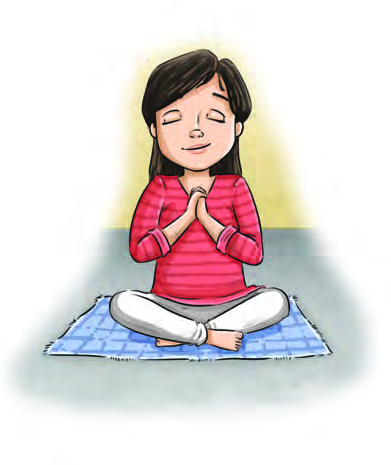
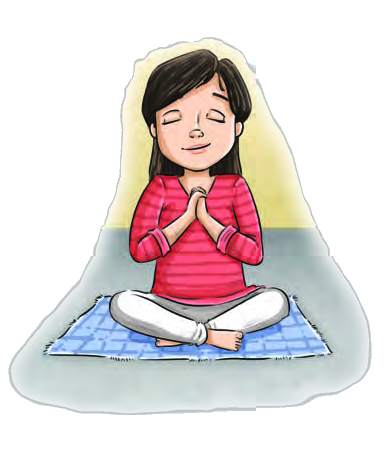
Waayy too many changes

diff --git a/src/data/6/english/poorvi/unit-1/chapter-1-3/textbook.js b/src/data/6/english/poorvi/unit-1/chapter-1-3/textbook.js
@@ -21,7 +21,7 @@ export const parts = [
   },
   {
     heading: "The Clever Plan",
-    explain: `In the next room, the masked thief has dug a hole through the wall and stands listening beside a wooden chest, wondering where the family hides its money. Hearing their voices, he decides to wait until they fall asleep. Meanwhile, the husband whispers a smart idea to his wife. Speaking loudly enough for the thief to hear, they pretend to discuss what they would name a son if they had oneâ€”and agree on the name "Rama".`,
+    explain: `In the next room, the masked thief has dug a hole through the wall and stands listening beside a wooden chest, wondering where the family hides its money. Hearing their voices, he decides to wait until they fall asleep. Meanwhile, the husband whispers a smart idea to his wife. Speaking loudly enough for the thief to hear, they pretend to discuss what they would name a son if they had one—and agree on the name "Rama".`,
     glossary: [
       { word: "wonder", meaning: "a feeling of surprise" },
       { word: "perhaps", meaning: "maybe" },
@@ -30,7 +30,7 @@ export const parts = [
   },
   {
     heading: "Calling Out 'Rama!'",
-    explain: `The thief listens eagerly, hoping they will mention their money, and grows irritated at what sounds like a silly game. Continuing their act, the wife asks how she would call the boy depending on where he is. First she calls softly for inside the house, then a little louder for the yard, and finallyâ€”when her husband asks what she would do if the boy were out in the streetâ€”she shouts "RAMA! RAMA!" at the top of her lungs.`,
+    explain: `The thief listens eagerly, hoping they will mention their money, and grows irritated at what sounds like a silly game. Continuing their act, the wife asks how she would call the boy depending on where he is. First she calls softly for inside the house, then a little louder for the yard, and finally—when her husband asks what she would do if the boy were out in the street—she shouts "RAMA! RAMA!" at the top of her lungs.`,
     glossary: [
       { word: "yard", meaning: "an area outside a building" },
       { word: "instead", meaning: "in place of someone or something" }
@@ -38,7 +38,7 @@ export const parts = [
   },
   {
     heading: "Caught Red-Handed",
-    explain: `Out on night patrol, Rama, the village kotwal, hears his name echoing from the house and sprints straight there. Reaching the back wall, he notices the freshly dug hole and realises a thief has broken in. Quietly squeezing through the opening, Rama catches the thief just as the burglar sighs in relief that the couple's chatter has stopped. Rama taps him on the shoulder and places him under arrest. Hearing the commotion, the husband and wife celebrate joyfullyâ€”their clever plan worked, and Rama marched the thief away into the night.`,
+    explain: `Out on night patrol, Rama, the village kotwal, hears his name echoing from the house and sprints straight there. Reaching the back wall, he notices the freshly dug hole and realises a thief has broken in. Quietly squeezing through the opening, Rama catches the thief just as the burglar sighs in relief that the couple's chatter has stopped. Rama taps him on the shoulder and places him under arrest. Hearing the commotion, the husband and wife celebrate joyfully—their clever plan worked, and Rama marched the thief away into the night.`,
     glossary: [
       { word: "chatter", meaning: "talk for a long time about unimportant things" }
     ]

diff --git a/src/data/6/english/poorvi/unit-1/chapter-1-3/let-us-think-and-reflect.js b/src/data/6/english/poorvi/unit-1/chapter-1-3/let-us-think-and-reflect.js
@@ -73,7 +73,7 @@ Rama: Oh, Oh! Some thief has dug his way into this house.`,
       {
         n: 1, type: "short",
         question: "What did the thief wish would happen? Did it happen?",
-        answer: "The thief wished the couple would stop their silly chatter about naming a child and either talk about where they kept their money or fall asleep so he could rob them. No, it did not happenâ€”instead, their loud calls brought Rama, the kotwal, who arrested him."
+        answer: "The thief wished the couple would stop their silly chatter about naming a child and either talk about where they kept their money or fall asleep so he could rob them. No, it did not happen—instead, their loud calls brought Rama, the kotwal, who arrested him."
       }
     ]
   },
@@ -84,7 +84,7 @@ Rama: Oh, Oh! Some thief has dug his way into this house.`,
       {
         n: 1, type: "long",
         question: "How did the man and his wife get help from the kotwal?",
-        answer: "The man whispered a clever plan to his wife. Pretending to discuss what they would name their future son, they chose 'Rama'â€”the name of the village kotwalâ€”and acted out calling him softly in the house, louder in the yard, and finally shouting 'RAMA!' very loudly as if he were in the street. Hearing his name shouted, the kotwal ran to their house and caught the thief."
+        answer: "The man whispered a clever plan to his wife. Pretending to discuss what they would name their future son, they chose 'Rama'—the name of the village kotwal—and acted out calling him softly in the house, louder in the yard, and finally shouting 'RAMA!' very loudly as if he were in the street. Hearing his name shouted, the kotwal ran to their house and caught the thief."
       }
     ]
   },
@@ -95,7 +95,7 @@ Rama: Oh, Oh! Some thief has dug his way into this house.`,
       {
         n: 1, type: "activity",
         question: "Do you think cleverness can help us solve our problems? Why do you say so?",
-        answer: "*(Personal answer - sample.)* Yes, cleverness and calm thinking can help us solve difficult problems safely. When we panic, we cannot think clearly, but when we use our witâ€”just like the husband and wife in the storyâ€”we can turn even a dangerous situation in our favour without getting hurt."
+        answer: "*(Personal answer - sample.)* Yes, cleverness and calm thinking can help us solve difficult problems safely. When we panic, we cannot think clearly, but when we use our wit—just like the husband and wife in the story—we can turn even a dangerous situation in our favour without getting hurt."
       }
     ]
   }

diff --git a/src/data/6/english/poorvi/unit-1/chapter-1-3/let-us-explore.js b/src/data/6/english/poorvi/unit-1/chapter-1-3/let-us-explore.js
@@ -12,7 +12,7 @@ export const sections = [
         n: 1, type: "activity",
         question: "Find out from your teacher or parents what you would do in the following situations.\n\nWho will you call if ...\nâ€¢ you see fire\nâ€¢ you see someone getting hurt\nâ€¢ you see a wounded animal\nâ€¢ you see someone suspicious\nâ€¢ you find a lost child\nâ€¢ you get lost",
         answer: [
-          "*(Emergency numbers in India â€” always inform a trusted adult nearby as well; **112** is India's national all-in-one emergency number.)*",
+          "*(Emergency numbers in India — always inform a trusted adult nearby as well; **112** is India's national all-in-one emergency number.)*",
           "- **you see fire:** Call the Fire Brigade (**101** or **112**) and alert adults immediately.",
           "- **you see someone getting hurt:** Call an Ambulance (**102** or **108**, or **112**) and call an adult or doctor for first aid.",
           "- **you see a wounded animal:** Inform your parents/teacher and call a local veterinary clinic, municipal animal rescue, or an animal welfare helpline.",
@@ -26,7 +26,7 @@ export const sections = [
         figure: { src: "images/kotwal-maze.png", alt: "A maze puzzle where the village kotwal at the top-left must find the right path to catch the thief at the bottom-right" },
         question: "Find the right path for the kotwal to catch the thief.",
         answer: [
-          "*(Maze activity â€” trace lightly with a pencil on the printed picture.)*",
+          "*(Maze activity — trace lightly with a pencil on the printed picture.)*",
           "1. **Start** at the opening directly below the kotwal in the top-left corner and move **down** along the left corridor.",
           "2. Avoid the short dead-end loops on the far left and top-right; turn **right** into the central passages and weave around the middle horizontal barriers.",
           "3. **Tip:** If you get stuck at a dead end, try tracing **backwards** from the open gap just above the thief at the bottom-right towards the middle corridors until the two paths meet."

diff --git a/src/data/6/english/poorvi/unit-1/chapter-1-2/let-us-speak.js b/src/data/6/english/poorvi/unit-1/chapter-1-2/let-us-speak.js
@@ -10,7 +10,7 @@ export const sections = [
         question: "Narrate the poem in the form of a story. Give a different ending to the story.",
         answer: [
           "*(Sample narration with a different ending.)*",
-          "This is a story about a clever fox named Reynard and Mr Raven. One day, Mr Raven found a delicious piece of bread and flew up to a high branch in the woods to eat it in peace. Reynard the Fox spotted the food and wanted it for himself. Standing under the tree, he praised Mr Raven's shiny black feathers and begged him to sing so that all the birds of the woods would call him King. For a second, Mr Raven felt pleasedâ€”but then he remembered that his voice was only a hoarse croak! Realising Reynard's trick, Mr Raven carefully tucked the piece of bread safely under his claw on the branch, let out a loud 'Caw! Caw!', and said, 'Thank you for your sweet words, Reynard, but I prefer keeping my breakfast!' Reynard hung his head in embarrassment and walked away hungry."
+          "This is a story about a clever fox named Reynard and Mr Raven. One day, Mr Raven found a delicious piece of bread and flew up to a high branch in the woods to eat it in peace. Reynard the Fox spotted the food and wanted it for himself. Standing under the tree, he praised Mr Raven's shiny black feathers and begged him to sing so that all the birds of the woods would call him King. For a second, Mr Raven felt pleased—but then he remembered that his voice was only a hoarse croak! Realising Reynard's trick, Mr Raven carefully tucked the piece of bread safely under his claw on the branch, let out a loud 'Caw! Caw!', and said, 'Thank you for your sweet words, Reynard, but I prefer keeping my breakfast!' Reynard hung his head in embarrassment and walked away hungry."
         ]
       }
     ]

diff --git a/src/data/6/english/poorvi/unit-1/chapter-1-1/summary.js b/src/data/6/english/poorvi/unit-1/chapter-1-1/summary.js
@@ -4,7 +4,7 @@ export const summary = `"A Bottle of Dew" by Sudha Murty tells the story of Rama
 
 One day, a famous sage named Mahipati visits their town. Rama Natha asks him about the potion. The wise sage tells him to plant banana trees, tend them himself, and collect five litres of winter morning dew from the leaves with his own hands. Determined to get the potion, Rama Natha clears his neglected fields and plants rows of banana trees. Over six years, he builds a huge plantation, while Madhumati harvests the bananas and sells them in the market for a good price.
 
-When Rama Natha finally brings five litres of dew, the sage mutters over the bottle and asks him to test it on a copper vessel. Nothing turns to gold, and Rama Natha feels cheated. Sage Mahipati then calls Madhumati forward with a box full of shining gold coins earned from the banana crop. The sage explains that there is no magic potionâ€”it was Rama Natha's hard work and his wife's effort that created real wealth. Realising the sage's wisdom, Rama Natha works even harder on his plantation.`;
+When Rama Natha finally brings five litres of dew, the sage mutters over the bottle and asks him to test it on a copper vessel. Nothing turns to gold, and Rama Natha feels cheated. Sage Mahipati then calls Madhumati forward with a box full of shining gold coins earned from the banana crop. The sage explains that there is no magic potion—it was Rama Natha's hard work and his wife's effort that created real wealth. Realising the sage's wisdom, Rama Natha works even harder on his plantation.`;
 
 export const moral = `There are no magic shortcuts to wealth or success. Sincere hard work, patience, and smart effort create lasting rewards.`;
 

diff --git a/src/data/6/english/poorvi/unit-1/chapter-1-3/summary.js b/src/data/6/english/poorvi/unit-1/chapter-1-3/summary.js
@@ -2,7 +2,7 @@ export const meta = { title: "Summary", status: "published", tags: ["Summary"] }
 
 export const summary = `"Rama to the Rescue" is a humorous Tamil Nadu folk tale about quick thinking and presence of mind. Late one night, a tired husband and wife are getting ready to sleep in their village house when they hear someone breaking through the wall. Once the sound stops, they realise a thief has slipped inside past Rama, the village kotwal.
 
-Hiding inside the room, the thief hears their voices and waits for them to reveal where their money is kept or fall asleep. Instead of panicking, the husband quietly shares a clever plan with his wife. Pretending to chat idly, they talk about naming their future son "Rama" and practise calling himâ€”softly inside the house, louder in the yard, and finally shouting "RAMA!" very loudly as if he were out in the street.
+Hiding inside the room, the thief hears their voices and waits for them to reveal where their money is kept or fall asleep. Instead of panicking, the husband quietly shares a clever plan with his wife. Pretending to chat idly, they talk about naming their future son "Rama" and practise calling him—softly inside the house, louder in the yard, and finally shouting "RAMA!" very loudly as if he were out in the street.
 
 The impatient thief thinks it is foolish chatter, but Rama the kotwal hears his name shouted in the night. He rushes to the house, spots the hole dug in the wall, climbs quietly inside, and arrests the startled thief. By staying calm and thinking smartly, the couple saves themselves from being robbed.`;
 

diff --git a/src/data/6/english/poorvi/unit-1/chapter-1-2/textbook.js b/src/data/6/english/poorvi/unit-1/chapter-1-2/textbook.js
@@ -16,7 +16,7 @@ export const parts = [
     heading: "Stanza 1: The Raven and His Morsel",
     image: "images/raven-and-fox.png",
     imageAlt: "A fox sitting under a tree looking up at a raven holding food in its beak",
-    explain: `Mr Raven sits high up on the branch of a tree, while Reynard the Fox watches him eagerly from the ground below. In his large beak, Mr Raven holds a delicious piece of foodâ€”a prize so tempting that the hungry Fox would travel a long way to get it.`,
+    explain: `Mr Raven sits high up on the branch of a tree, while Reynard the Fox watches him eagerly from the ground below. In his large beak, Mr Raven holds a delicious piece of food—a prize so tempting that the hungry Fox would travel a long way to get it.`,
     glossary: [
       { word: "perched", meaning: "sat on a branch" },
       { word: "limb", meaning: "branch of a tree" },
@@ -52,7 +52,7 @@ export const characters = [
 ];
 
 export const themes = [
-  "Beware of flatterersâ€”sweet words often hide a selfish motive.",
+  "Beware of flatterers—sweet words often hide a selfish motive.",
   "Foolish pride blinds us to our own weaknesses and can cost us what we already have.",
   "Wise thinking matters more than vanity."
 ];

diff --git a/src/data/6/english/poorvi/unit-1/chapter-1-3/exam-notes.js b/src/data/6/english/poorvi/unit-1/chapter-1-3/exam-notes.js
@@ -18,7 +18,7 @@ export const blocks = [
   {
     type: "grammar",
     title: "Contractions, present progressive tense, adverbs, and sentence types",
-    rule: "**Contractions** shorten two words using an apostrophe (*I'm = I am*, *it's = it is*, *they're = they are*). **Present progressive tense** (*am/is/are + verb-ing*) describes actions happening at the moment of speaking. **Adverbs** tell us more about a verb (how, when, whereâ€”e.g. *closely, softly, loudly*). **Exclamatory sentences** express strong feelings (!); **interrogative sentences** ask questions (?).",
+    rule: "**Contractions** shorten two words using an apostrophe (*I'm = I am*, *it's = it is*, *they're = they are*). **Present progressive tense** (*am/is/are + verb-ing*) describes actions happening at the moment of speaking. **Adverbs** tell us more about a verb (how, when, where—e.g. *closely, softly, loudly*). **Exclamatory sentences** express strong feelings (!); **interrogative sentences** ask questions (?).",
     examples: [
       "I'm feeling so sleepy. (contraction + present progressive)",
       "I'll call out softly to him. (adverb of manner)",

diff --git a/src/data/6/english/poorvi/unit-1/chapter-1-1/let-us-think-and-reflect.js b/src/data/6/english/poorvi/unit-1/chapter-1-1/let-us-think-and-reflect.js
@@ -90,7 +90,7 @@ export const sections = [
       {
         n: 4, type: "long",
         question: "How did the sage make Rama Natha believe that there is no magic potion?",
-        answer: "When the dew failed to turn the copper vessel into gold, the sage called Madhumati forward with a big box filled with shining gold coins. He explained that the coins came from selling the bananas grown through Rama Natha's hard work and Madhumati's efforts, proving that hard workâ€”not magicâ€”created the wealth."
+        answer: "When the dew failed to turn the copper vessel into gold, the sage called Madhumati forward with a big box filled with shining gold coins. He explained that the coins came from selling the bananas grown through Rama Natha's hard work and Madhumati's efforts, proving that hard work—not magic—created the wealth."
       },
       {
         n: 5, type: "table",

diff --git a/src/data/6/english/poorvi/unit-1/chapter-1-2/let-us-explore.js b/src/data/6/english/poorvi/unit-1/chapter-1-2/let-us-explore.js
@@ -13,7 +13,7 @@ export const sections = [
           "*(Craft and drama activity - steps.)*",
           "- **Fox puppet:** Fold an orange square of paper diagonally into a fox face shape, colour the tip black for the nose, glue on two round paper eyes and pointed ears, and tape a thin stick or ice-cream stick to the back.",
           "- **Raven puppet:** Cut the bird's body, wing, and tail shapes from black paper (or chart paper), assemble them neatly, add an eye and beak, and tape a stick behind the bird.",
-          "- **Enactment:** Work in pairsâ€”one student moves the Raven puppet holding a paper morsel, while the other speaks Reynard's flattering lines with expression."
+          "- **Enactment:** Work in pairs—one student moves the Raven puppet holding a paper morsel, while the other speaks Reynard's flattering lines with expression."
         ]
       }
     ]

diff --git a/src/data/8/english/poorvi/unit-4/chapter-11-2/let-us-think-and-reflect.js b/src/data/8/english/poorvi/unit-4/chapter-11-2/let-us-think-and-reflect.js
@@ -102,7 +102,7 @@ answer: "Dividing the hymn into Men's Voices, Women's Voices, and All Voices ref
 {
 n: 6, type: "long",
 question: "How does the poet create the joyous atmosphere of rural India at harvesting time?",
-answer: "Sarojini Naidu uses rich sensory imagery of golden fields, ripe fruit, fragrant garlands, and gourd-flowers, paired with traditional Indian musicÃ¢â‚¬â€cymbals, flute, pipe, and drumÃ¢â‚¬â€and joyful collective chanting ('we hail thee', 'we praise thee') to evoke a festive rural celebration."
+answer: "Sarojini Naidu uses rich sensory imagery of golden fields, ripe fruit, fragrant garlands, and gourd-flowers, paired with traditional Indian music—cymbals, flute, pipe, and drum—and joyful collective chanting ('we hail thee', 'we praise thee') to evoke a festive rural celebration."
 },
 {
 n: 7, type: "long",

diff --git a/src/data/6/english/poorvi/unit-1/chapter-1-2/exam-notes.js b/src/data/6/english/poorvi/unit-1/chapter-1-2/exam-notes.js
@@ -51,7 +51,7 @@ export const blocks = [
       {
         marks: 5,
         q: "What moral does 'The Raven and the Fox' teach? Explain with reference to the poem.",
-        a: "The poem teaches us not to trust flatterers and never to let pride cloud our judgement. Reynard praised Mr Raven only to trick him into opening his beak and dropping his food. Because Mr Raven let sweet words make him feel proud, he forgot his own limitationâ€”that he could only croakâ€”and lost what he had."
+        a: "The poem teaches us not to trust flatterers and never to let pride cloud our judgement. Reynard praised Mr Raven only to trick him into opening his beak and dropping his food. Because Mr Raven let sweet words make him feel proud, he forgot his own limitation—that he could only croak—and lost what he had."
       }
     ]
   }
